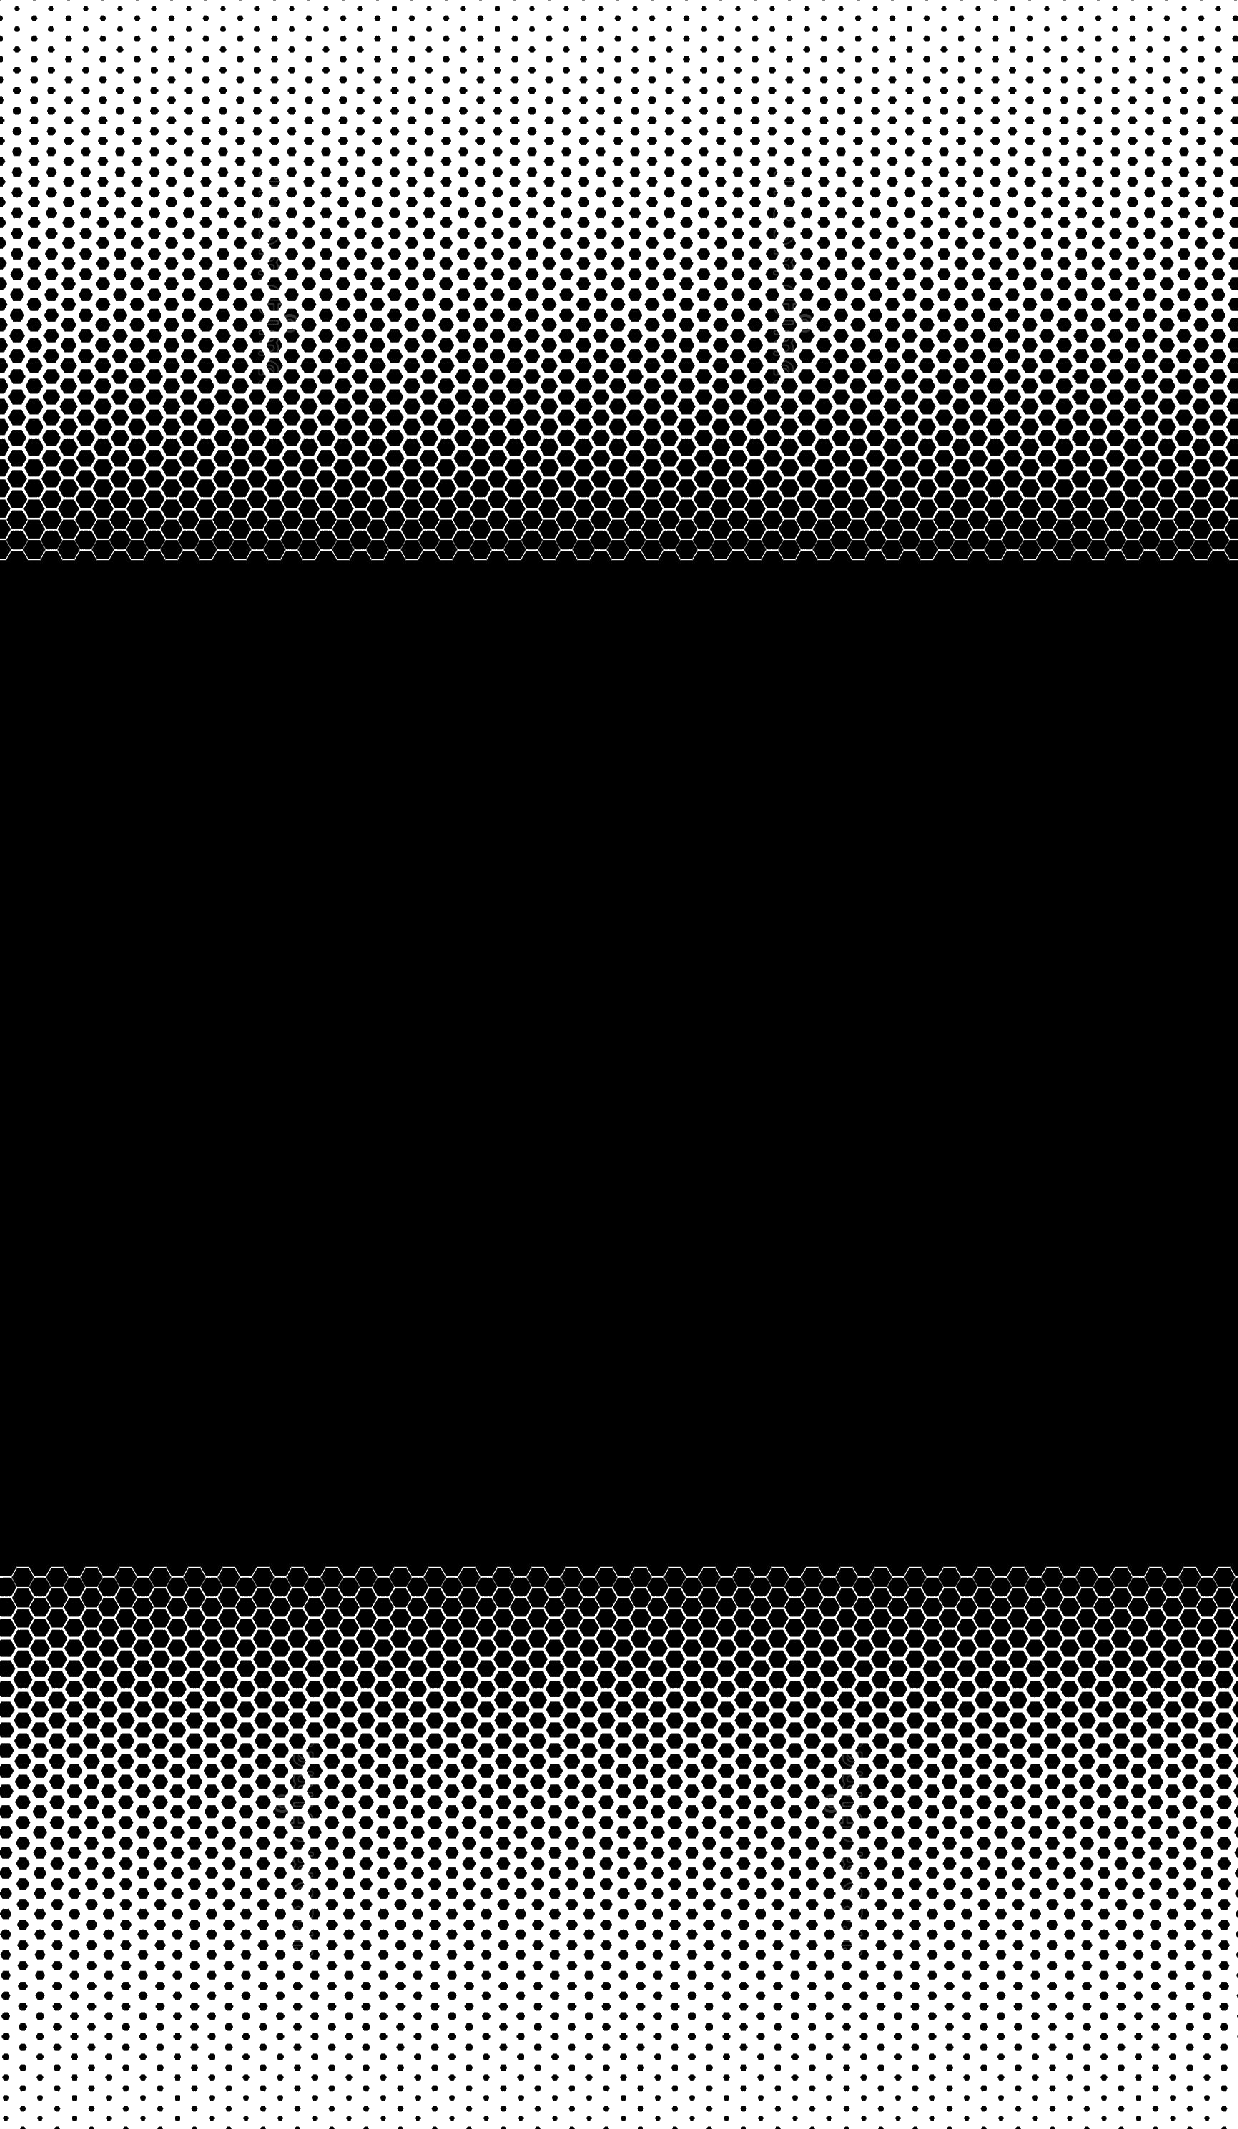
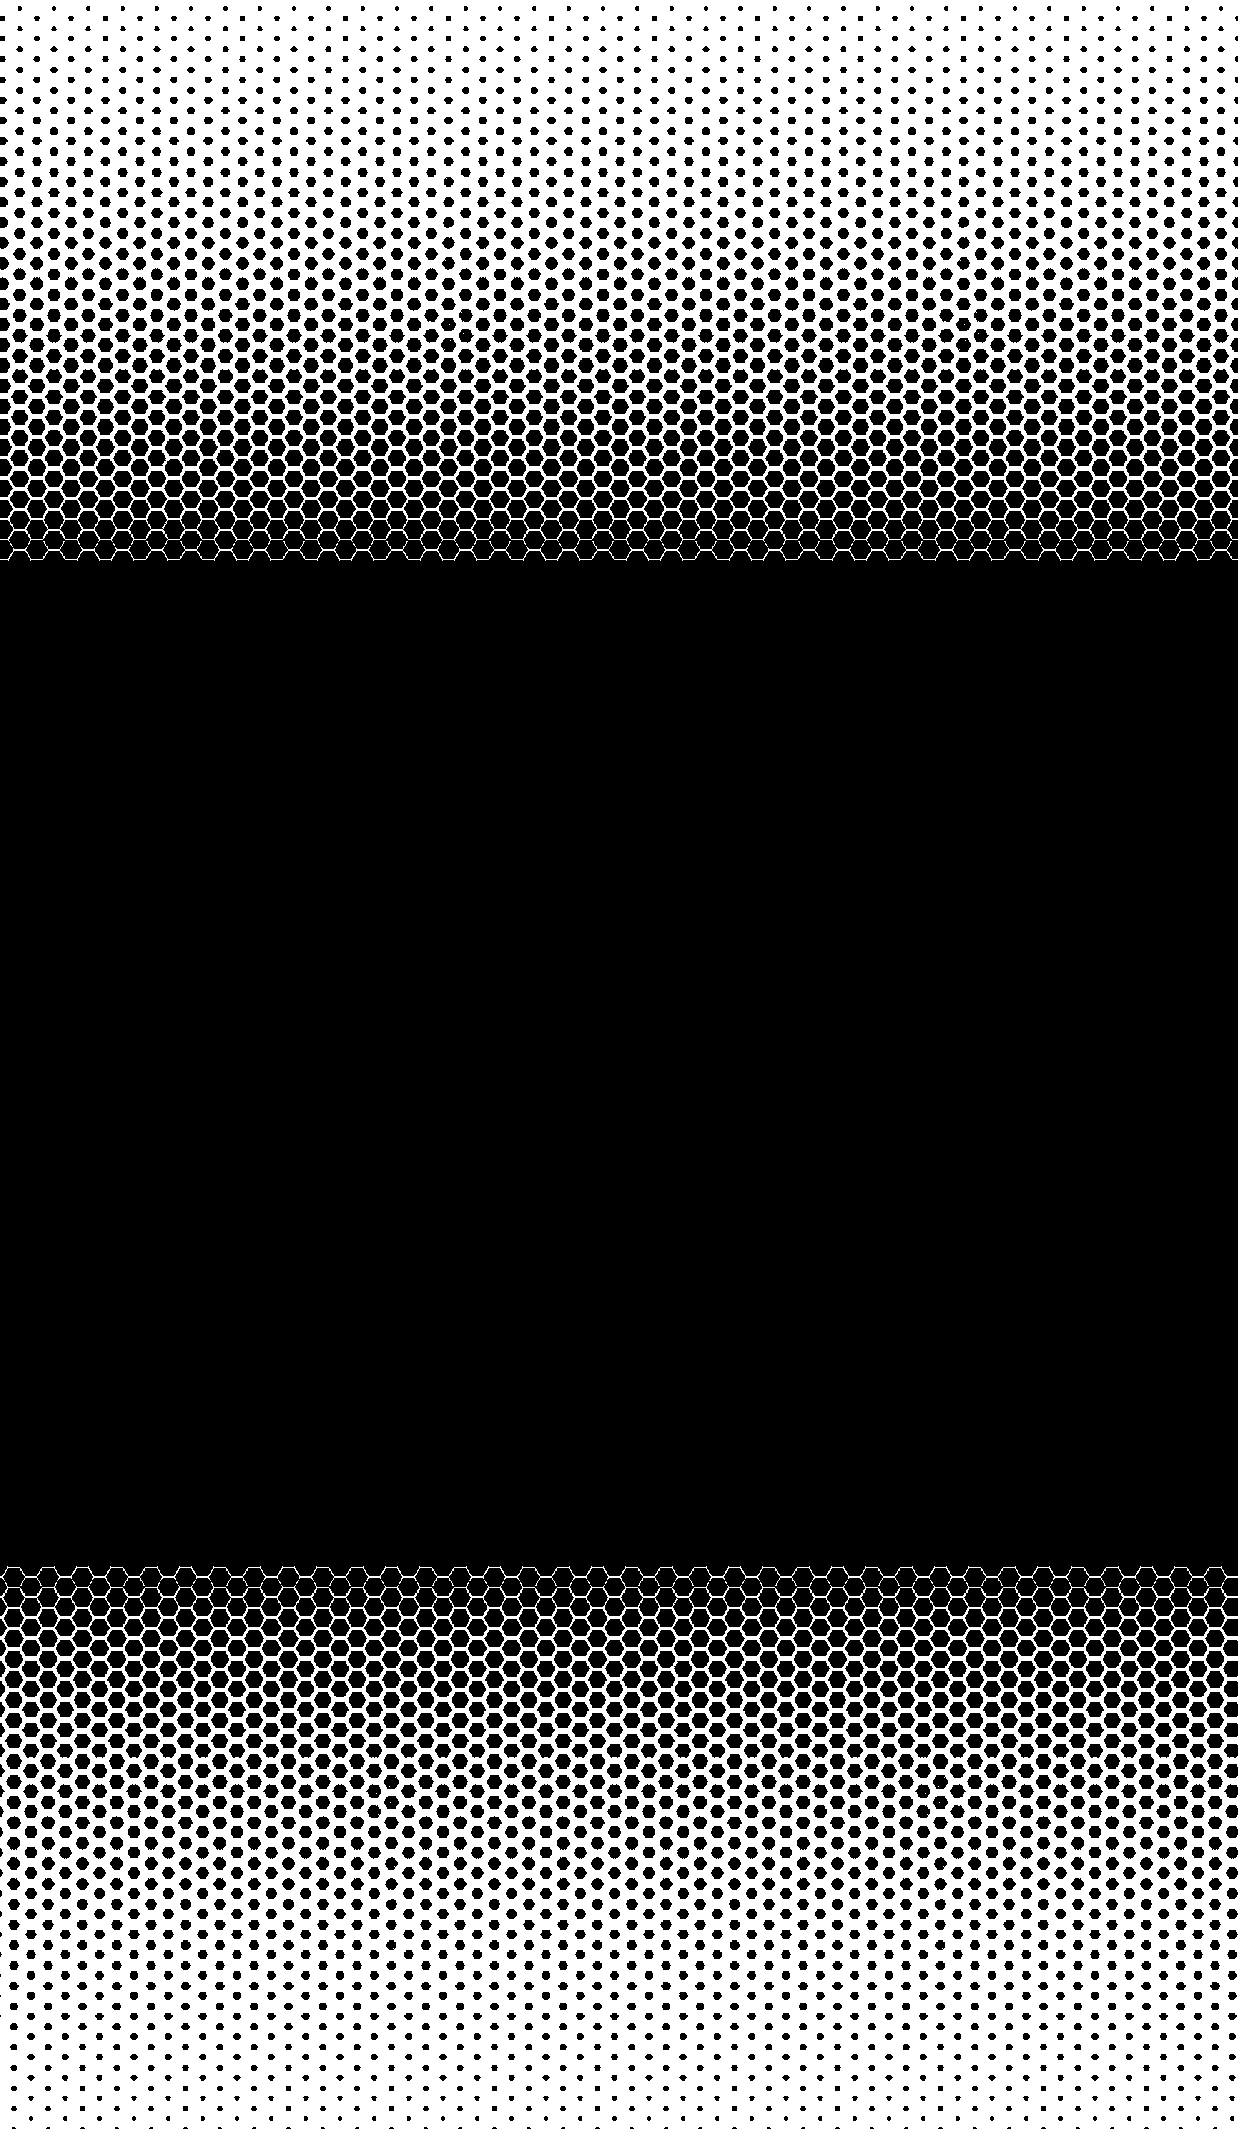
Just Update

Changed region(s): [[0.0, 0.744, 1.0, 1.0], [0.0, 0.0, 1.0, 0.279]]

diff --git a/SourceCode/TransitionEffect.h b/SourceCode/TransitionEffect.h
@@ -20,7 +20,7 @@ public:
 
             Horizontol = true;
         } else {
-            pos = { 0, -1500 - pivot.y };
+            pos = { SCREEN_W / 2, -pivot.y };
             Vertical = true;
         }
         state = true;
@@ -63,15 +63,14 @@ public:
         else if (Vertical)
         {
             pos.y += 30;
-            if (pos.y <= SCREEN_H / 2) {
+            if (pos.y > SCREEN_H / 2) {
                 state = false;
-            } else if (pos.y > 2000) {
+            } else if (pos.y > pivot.y) {
                 Vertical = false;
             }
         }
     }
-    void Draw()
-    {
+    void Draw() {
         if(Vertical || Horizontol)
             GameLib::sprite_render(spr.get(), pos.x, pos.y, size.x, size.y, tPos.x, tPos.y, tSize.x, tSize.y, pivot.x, pivot.y, angle, 1, 1, 1, 1);
     }

diff --git a/SourceCode/TestMap.cpp b/SourceCode/TestMap.cpp
@@ -16,7 +16,7 @@ void test_init()
     //sprTrans = ;
     t_state = 0;
     t_timer = 0;
-    Transition::Instance()->Initialize(sprite_load(L"./Data/Images/transition.png"), { 0, 0 }, { 1.5, 1.5 }, { 0, 0 }, { 1238, 2129 });
+    Transition::Instance()->Initialize(sprite_load(L"./Data/Images/transition.png"), { 0, 0 }, { 1.75f, 1.75f }, { 0, 0 }, { 1238, 2129 });
 }
 
 void test_update()

diff --git a/SourceCode/Player.cpp b/SourceCode/Player.cpp
@@ -254,7 +254,7 @@ void Player::Update()
         for (int x = 0; x < MAP_X; ++x)
         {
             if (HitGoal(this, &Collision)) {
-                Transition::Instance()->Activate(false);
+                Transition::Instance()->Activate(((nextScene - 1) == 3));
                 nextScene++;
                 return;
             }
